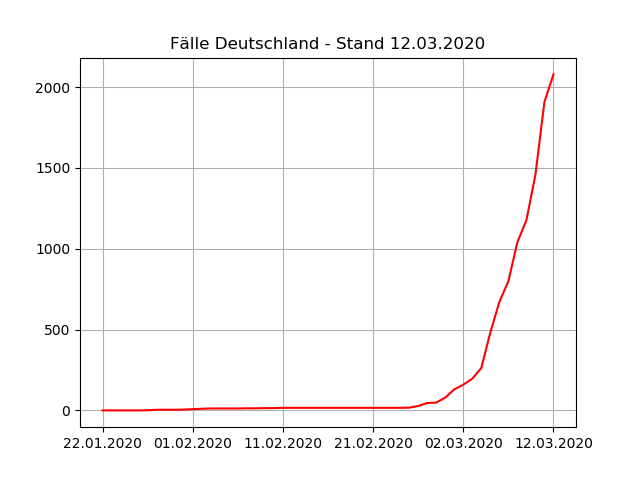
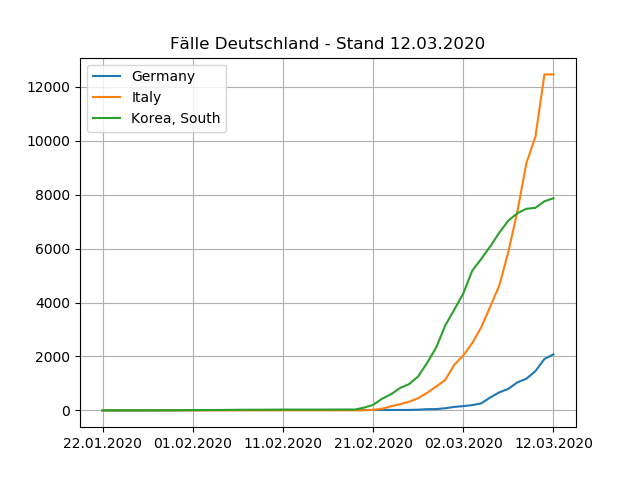
enabled plotting of data for multiple countries

diff --git a/plot.py b/plot.py
@@ -4,32 +4,38 @@ import matplotlib as mpl
 mpl.use('Agg')
 import matplotlib.pyplot as plt
 
+countries = ['Germany', 'Italy', 'Korea, South']
+
 # load data
 data = pandas.read_csv('COVID-19/csse_covid_19_data/csse_covid_19_time_series/time_series_19-covid-Confirmed.csv')
 
 # filter cases in Germany
-data = data[data['Country/Region'] == 'Germany']
-assert(len(data.index) == 1) # check if only one entry for "Germany" found
+data = data[data['Country/Region'].isin(countries)]
+# generate mapping of index to country
+indices_countries = {index: countries[i] for i, index in enumerate(data.index.to_list())}
+# check if number of found data rows equals number of queries
+assert(len(data.index) == len(countries))
 
 # remove columns that are not needed anymore
 data = data.drop(labels=['Province/State', 'Country/Region', 'Lat', 'Long'], axis='columns')
-
 # check if all remaining columns are valid dates
 [parse(entry) for entry in data]
-
 # check if no day is missing
 for day_before, day in zip(data.columns, data.columns[1:]):
     assert((parse(day) - parse(day_before)).total_seconds() == 60 * 60 * 24)
 
 # German data format
 data = data.rename(columns={column: parse(column).strftime('%d.%m.%Y') for column in data.columns})
-
 # last date
 last_date = data.columns[-1]
 
+# dates should be rows, not columns
+data = data.transpose()
+# replace index by name
+data = data.rename(columns=indices_countries)
 # plot
-data.iloc[0].plot(grid=True, color='r', title='Fälle Deutschland - Stand ' + last_date)
+data.plot(grid=True, title='Fälle Deutschland - Stand ' + last_date)
 plt.savefig('cases.png')
-
-data.iloc[0].plot(logy=True, grid=True, color='r', title='Fälle Deutschland (mit logarithmischer Skala) - Stand ' + last_date)
+# log plot
+data.plot(logy=True, grid=True, title='Fälle Deutschland (mit logarithmischer Skala) - Stand ' + last_date)
 plt.savefig('cases_log.png')

diff --git a/README.md b/README.md
@@ -1,5 +1,5 @@
 # covid-19_deutschland
-Visualisierung von Covid-19 Statistiken
+Visualisierung von Covid-19 Statistiken.
 
 ## Schaubilder
 
